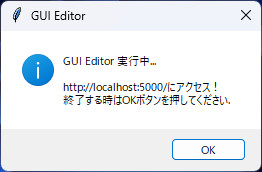
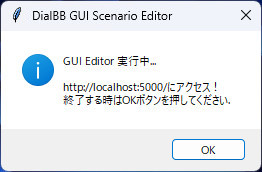
changed a name of the editor.

Changed region(s): [[0.1221, 0.0581, 0.6718, 0.1163]]

diff --git a/dialbb/builtin_blocks/stn_management/gui_editor/main.py b/dialbb/builtin_blocks/stn_management/gui_editor/main.py
@@ -88,8 +88,8 @@ def exec_Editor(file_path):
         subprocess.Popen(["start", "msedge", "--app=http://localhost:5000/"], shell=True)
 
         # 終了の指示待ち
-        msg = 'GUI Editor 実行中...'
-        messagebox.showinfo("GUI Editor", msg, detail='http://localhost:5000/にアクセス！\n終了する時はOKボタンを押してください.')
+        msg = 'DialBB GUI Scenario Editor 実行中...'
+        messagebox.showinfo("DialBB GUI Scenario Editor", msg, detail='http://localhost:5000/にアクセス！\n終了する時はOKボタンを押してください.')
 
         # 終了処理
         save_json = os.path.join(EDITOR_DIR, 'dist', 'static', 'data', 'save.json')

diff --git a/dialbb/builtin_blocks/stn_management/gui_editor/README-ja.md b/dialbb/builtin_blocks/stn_management/gui_editor/README-ja.md
@@ -5,7 +5,7 @@
   python, node.js も必要です.  
 
 * （参考）開発環境  
-  python 3.10.5  (3.8.10でも動作確認済み)
+  python 3.10.5  (3.8.10でも動作確認済み)  
   vite 5.0.8  
   vue 3.3.11  
   node.js 21.6.1  
@@ -76,14 +76,14 @@
 
 <img src="images/editor-connection.jpg" width="30%">
 
-#### ・ファイルに保存(JSON)
-[Save]ボタンをクリックします、保存場所はシステムで固定です
+#### ・ファイルに保存(JSON⇒Excel)
+[Save]ボタンをクリックします、読み込んだシナリオExcelファイルに上書きされます。（ノードデータは一旦JSONに変換された後にExcelに書き込まれます）
 
 #### ・ファイルから読み込み(JSON)
-[Load]ボタンをクリックしJSONファイルを選択します、通常使用しません
+[Load]ボタンをクリックし保存してあるノードデータのJSONファイルを選択します、通常使用しません
 
 #### ・ノードのクリア
-[Clear]ボタンをクリックします、新規作成したい場合に使用します
+[Clear]ボタンをクリックします、新規作成したい場合に全てのノードを削除します
 
 -------  
 
